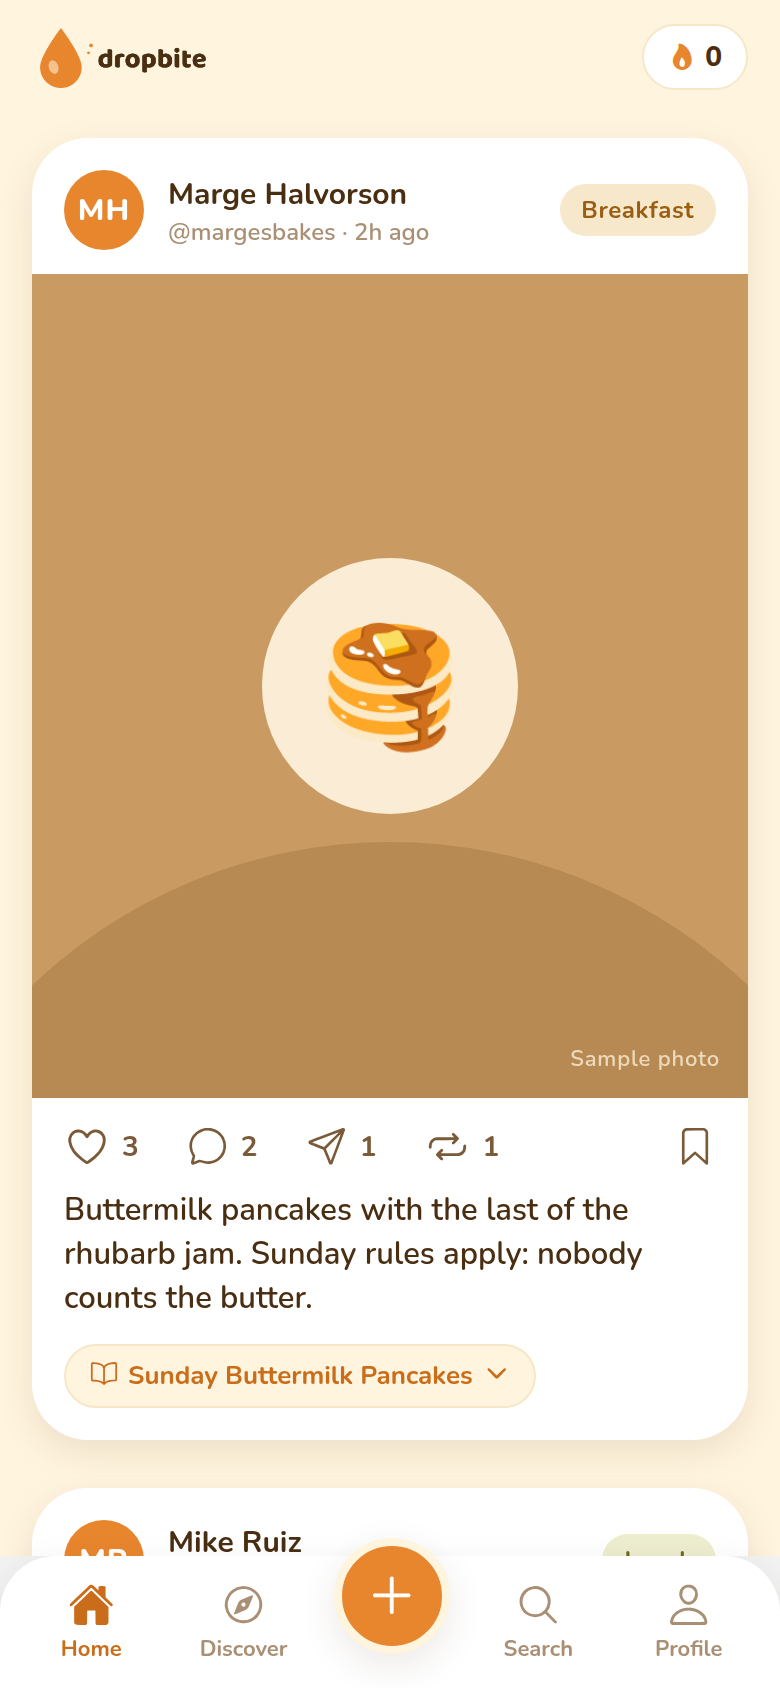
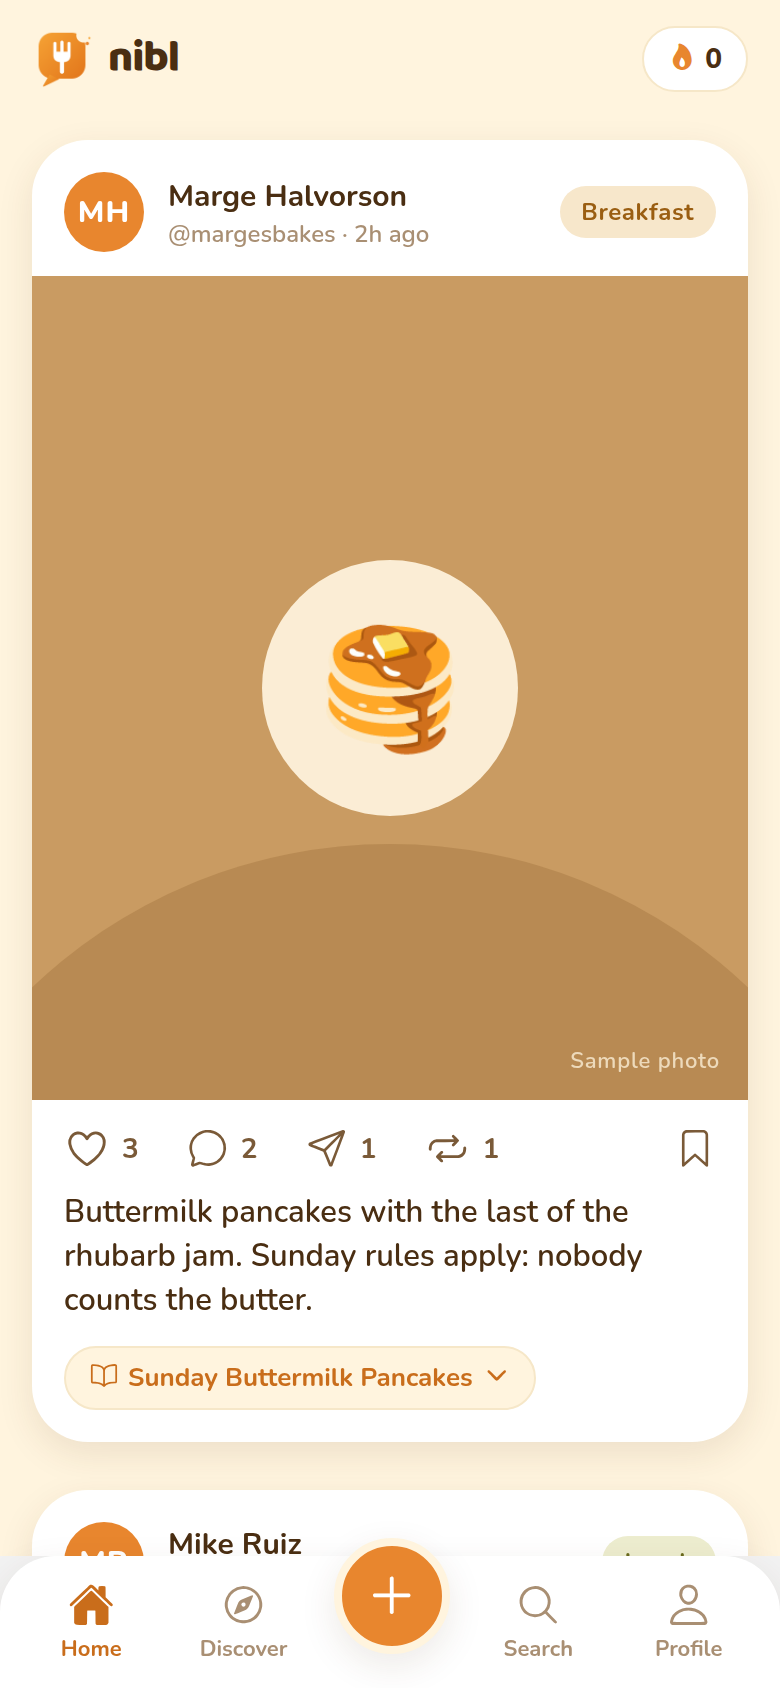
Rebrand to nibl with fork speech-bubble mark
- New logo: fork in a speech bubble with bite notch and crumbs, warm
  amber gradient; regenerated app icon, adaptive icon, splash, favicon,
  and in-app mark; removed old DropBite assets
- Wordmark 'nibl' (lowercase Baloo 2) on auth hero, feed header, splash
- New tagline: Share bites. Discover favorites. Connect over food.
- Renamed app config (name/slug/scheme/bundle ids com.nibl.app) and all
  in-app copy, storage keys, notification titles, export filename, docs
- Re-tested full flow end to end on web; refreshed docs/screenshots

Claude-Session: https://claude.ai/code/session_01RApoMospK1fVHQW545L4mR

diff --git a/src/components/Logo.tsx b/src/components/Logo.tsx
@@ -2,31 +2,31 @@ import React from 'react';
 import { Image, StyleSheet, Text, View } from 'react-native';
 import { colors, fonts } from '../theme';
 
-/** The bitten-drop lockup for headers. */
-export function LogoLockup({ height = 34 }: { height?: number }) {
-  return (
-    <Image
-      source={require('../../assets/logo-lockup.png')}
-      style={{ height, width: height * 3.05 }}
-      resizeMode="contain"
-    />
-  );
-}
-
+/** The nibl fork-bubble mark. */
 export function LogoMark({ size = 72 }: { size?: number }) {
   return (
     <Image
-      source={require('../../assets/drop-mark.png')}
+      source={require('../../assets/nibl-mark.png')}
       style={{ width: size, height: size }}
       resizeMode="contain"
     />
   );
 }
 
+/** Mark + wordmark row for headers. */
+export function LogoLockup({ height = 34 }: { height?: number }) {
+  return (
+    <View style={styles.row}>
+      <LogoMark size={height} />
+      <Text style={[styles.word, { fontSize: height * 0.72, marginLeft: 8 }]}>nibl</Text>
+    </View>
+  );
+}
+
 export function Wordmark({ size = 30, color = colors.cocoa }: { size?: number; color?: string }) {
   return (
     <View style={styles.row}>
-      <Text style={[styles.word, { fontSize: size, color }]}>dropbite</Text>
+      <Text style={[styles.word, { fontSize: size, color }]}>nibl</Text>
     </View>
   );
 }
@@ -37,7 +37,8 @@ const styles = StyleSheet.create({
     alignItems: 'center',
   },
   word: {
-    fontFamily: fonts.display,
+    fontFamily: fonts.wordmark,
+    color: colors.cocoa,
     letterSpacing: -0.5,
   },
 });

diff --git a/src/services/notifications.ts b/src/services/notifications.ts
@@ -11,19 +11,19 @@ const SLOT_TIMES: Record<keyof NotificationPrefs, { hour: number; minute: number
   breakfast: {
     hour: 8,
     minute: 0,
-    title: 'Breakfast on DropBite',
+    title: 'Breakfast on nibl',
     body: "What's on your plate this morning? Share it with your friends.",
   },
   lunch: {
     hour: 12,
     minute: 0,
-    title: 'Lunch on DropBite',
+    title: 'Lunch on nibl',
     body: 'Midday check-in. Show your friends what lunch looks like.',
   },
   dinner: {
     hour: 18,
     minute: 0,
-    title: 'Dinner on DropBite',
+    title: 'Dinner on nibl',
     body: 'Dinner time. Cooked or ordered, share it while it is hot.',
   },
 };

diff --git a/src/screens/AuthScreen.tsx b/src/screens/AuthScreen.tsx
@@ -60,8 +60,8 @@ export function AuthScreen() {
       <ScrollView contentContainerStyle={styles.scroll} keyboardShouldPersistTaps="handled">
         <View style={styles.hero}>
           <LogoMark size={76} />
-          <Text style={styles.wordmark}>dropbite</Text>
-          <Text style={styles.tagline}>Share what you eat, meal by meal</Text>
+          <Text style={styles.wordmark}>nibl</Text>
+          <Text style={styles.tagline}>Share bites. Discover favorites. Connect over food.</Text>
         </View>
 
         <View style={styles.card}>

diff --git a/src/screens/SettingsScreen.tsx b/src/screens/SettingsScreen.tsx
@@ -53,11 +53,11 @@ export function SettingsScreen({ navigation }: any) {
         const url = URL.createObjectURL(blob);
         const a = document.createElement('a');
         a.href = url;
-        a.download = 'dropbite-export.json';
+        a.download = 'nibl-export.json';
         a.click();
         URL.revokeObjectURL(url);
       } else {
-        await Share.share({ message: json, title: 'My DropBite data' });
+        await Share.share({ message: json, title: 'My nibl data' });
       }
     } finally {
       setExporting(false);

diff --git a/src/screens/SearchScreen.tsx b/src/screens/SearchScreen.tsx
@@ -60,7 +60,7 @@ export function SearchScreen({ navigation }: any) {
         <Muted>Find people, dishes, and restaurants.</Muted>
       </View>
       <View style={{ paddingHorizontal: spacing.lg }}>
-        <Input placeholder="Search DropBite" value={query} onChangeText={setQuery} />
+        <Input placeholder="Search nibl" value={query} onChangeText={setQuery} />
       </View>
       <FlatList
         data={posts}

diff --git a/src/screens/ComposeScreen.tsx b/src/screens/ComposeScreen.tsx
@@ -314,7 +314,7 @@ export function ComposeScreen({ navigation }: any) {
         />
         {!hasPhoto ? (
           <Muted style={{ textAlign: 'center', marginTop: spacing.sm }}>
-            Add a photo to post. DropBite is photo-first.
+            Add a photo to post. nibl is photo-first.
           </Muted>
         ) : null}
       </ScrollView>

diff --git a/src/services/supabase/supabaseService.ts b/src/services/supabase/supabaseService.ts
@@ -10,7 +10,7 @@ import { DataService } from '../types';
 import { getSupabase } from './client';
 import AsyncStorage from '@react-native-async-storage/async-storage';
 
-const PREFS_KEY = 'dropbite.notification.prefs';
+const PREFS_KEY = 'nibl.notification.prefs';
 
 /**
  * Production backend. Requires the schema in supabase/schema.sql and the

diff --git a/App.tsx b/App.tsx
@@ -96,7 +96,7 @@ function Root() {
     return (
       <View style={styles.splash}>
         <LogoMark size={96} />
-        <Text style={styles.splashWord}>dropbite</Text>
+        <Text style={styles.splashWord}>nibl</Text>
       </View>
     );
   }

diff --git a/src/theme.ts b/src/theme.ts
@@ -1,6 +1,6 @@
 import { Platform } from 'react-native';
 
-// DropBite brand palette (see PROJECT_SCOPE.md §7)
+// nibl brand palette (amber/cream/cocoa, see PROJECT_SCOPE.md §7)
 export const colors = {
   amber: '#E8862E',
   amberDark: '#C96D1B',

diff --git a/src/services/mock/mockService.ts b/src/services/mock/mockService.ts
@@ -12,7 +12,7 @@ import {
 import { DataService } from '../types';
 import { SEED_FOLLOWING, SEED_POSTS, SEED_REACTIONS, SEED_USERS } from './seed';
 
-const KEY = 'dropbite.demo.v1';
+const KEY = 'nibl.demo.v1';
 
 interface Db {
   users: User[];

diff --git a/README.md b/README.md
@@ -1,8 +1,10 @@
 <p align="center">
-  <img src="assets/logo-lockup.png" alt="DropBite" width="360" />
+  <img src="assets/nibl-mark.png" alt="nibl" width="140" />
 </p>
 
-# DropBite
+# nibl
+
+**Share bites. Discover favorites. Connect over food.**
 
 A photo-first social app for sharing what you actually cook and eat, meal by meal.
 BeReal energy, restructured around breakfast / lunch / dinner / snacks. Casual blurbs
@@ -84,5 +86,6 @@ supabase/
 
 ## Brand
 
-Amber `#E8862E` · Cream `#FFF4DE` · Cocoa `#4A2E12` · Baloo 2 ExtraBold wordmark ·
-bitten-drop mark with crumb details (recipe cards carry the bitten-corner motif).
+Name: **nibl** (one b). Mark: a fork in a speech bubble with a bite taken out of the
+corner and crumbs. Amber `#E8862E` · Cream `#FFF4DE` · Cocoa `#4A2E12` · Baloo 2
+ExtraBold wordmark (lowercase) · recipe cards carry the bitten-corner motif.

diff --git a/SETUP_GUIDE.md b/SETUP_GUIDE.md
@@ -1,4 +1,4 @@
-# DropBite Launch & Wiring Guide
+# nibl Launch & Wiring Guide
 
 Two parts:
 
